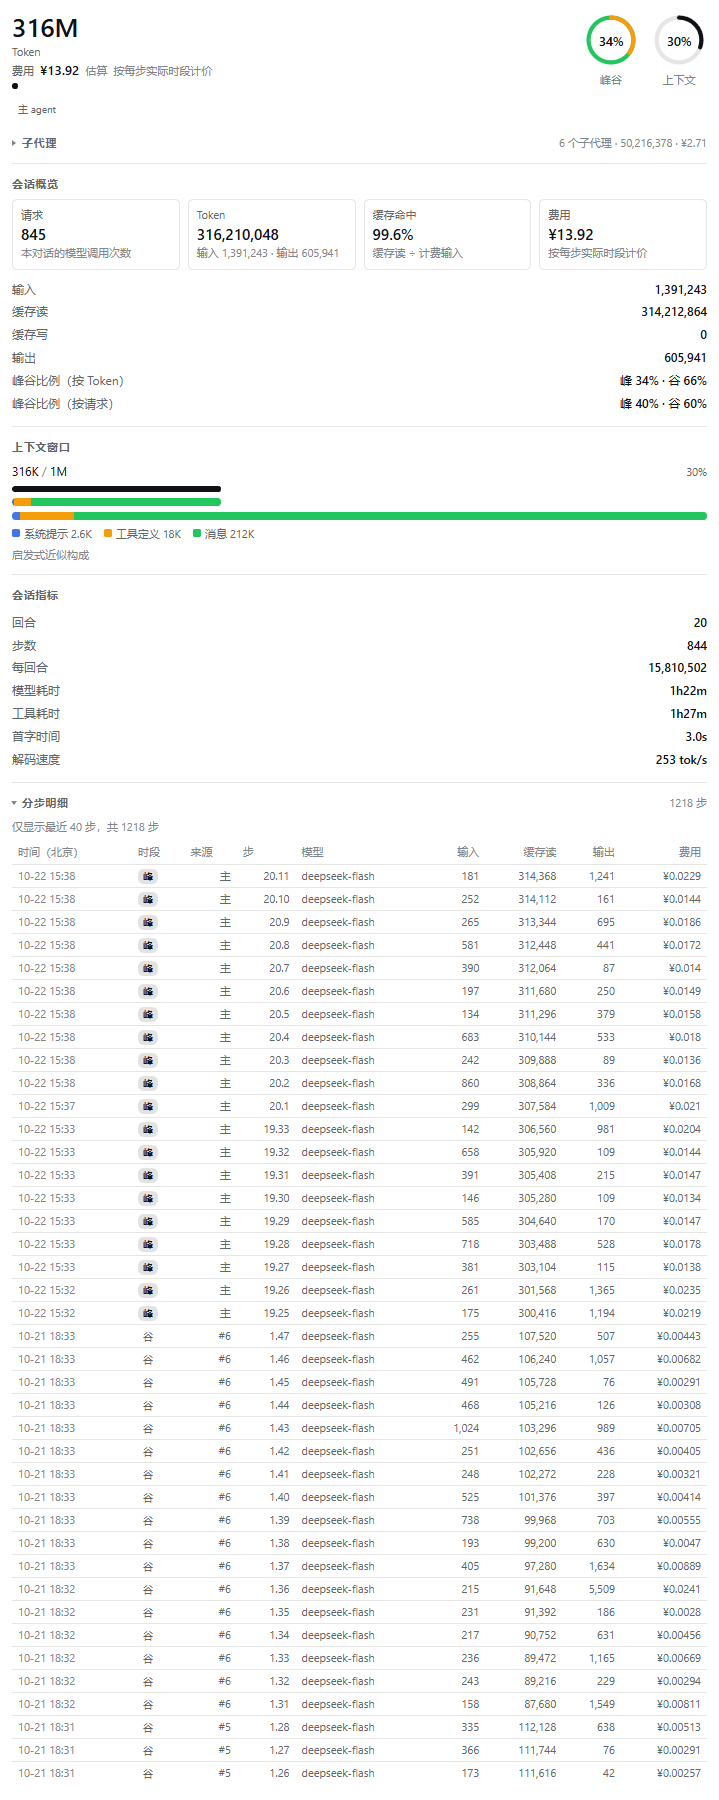
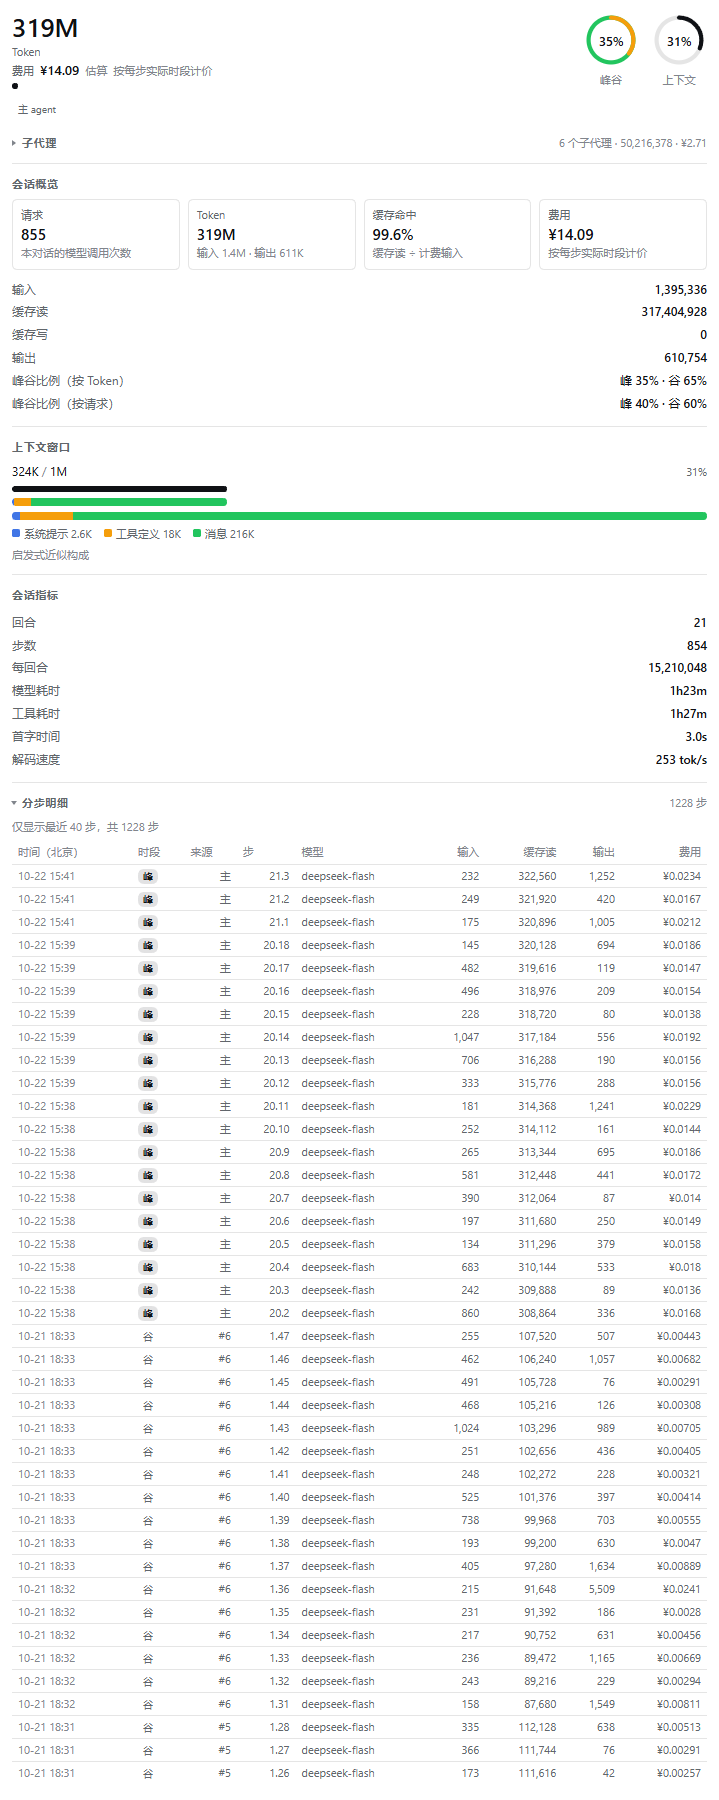
feat: compact units in the overview token card only

diff --git a/dist/client.js b/dist/client.js
@@ -1,4 +1,4 @@
-/* dsh-usage-insights v0.8.7 — generated by scripts/build.mjs; do not edit. */
+/* dsh-usage-insights v0.8.8 — generated by scripts/build.mjs; do not edit. */
 window.__ModuleLoader__.load({
   id: "dsh-usage-insights",
   factory(require) {
@@ -2173,8 +2173,9 @@ function SessionPanel(props) {
           Stat,
           {
             label: t("label.tokens"),
-            value: formatTokenCount(view.totalTokens),
-            hint: `${t("label.input")} ${formatTokenCount(view.buckets.uncachedInputTokens)} \xB7 ${t("label.output")} ${formatTokenCount(view.buckets.outputTokens)}`
+            value: formatTokens(view.totalTokens),
+            title: formatTokenCount(view.totalTokens),
+            hint: `${t("label.input")} ${formatTokens(view.buckets.uncachedInputTokens)} \xB7 ${t("label.output")} ${formatTokens(view.buckets.outputTokens)}`
           }
         ),
         /* @__PURE__ */ (0, import_jsx_runtime4.jsx)(

diff --git a/src/client/SessionPanel.tsx b/src/client/SessionPanel.tsx
@@ -154,8 +154,9 @@ export function SessionPanel(props: SessionPanelProps): JSX.Element {
             <Stat label={t('label.requests')} value={formatCount(view.requests)} hint={t('label.requests.hint')} />
             <Stat
               label={t('label.tokens')}
-              value={formatTokenCount(view.totalTokens)}
-              hint={`${t('label.input')} ${formatTokenCount(view.buckets.uncachedInputTokens)} · ${t('label.output')} ${formatTokenCount(view.buckets.outputTokens)}`}
+              value={formatTokens(view.totalTokens)}
+              title={formatTokenCount(view.totalTokens)}
+              hint={`${t('label.input')} ${formatTokens(view.buckets.uncachedInputTokens)} · ${t('label.output')} ${formatTokens(view.buckets.outputTokens)}`}
             />
             <Stat
               label={t('label.cacheHit')}

diff --git a/README.md b/README.md
@@ -15,7 +15,7 @@
 ### 用量（当前对话）
 
 - **会话概览**：请求数、Token 总量、输入 / 缓存读 / 缓存写 / 输出四桶、缓存命中率、费用，以及峰谷比例（按 Token 与按请求各一行）。
-- **Token 显示**：会话概览、会话指标、子代理明细与分步明细显示千分位精确整数（如 `275,123,456`）；页头总量、上下文窗口与用量汇总使用 `K` / `M` / `G` 紧凑单位，悬停数字可看到精确值。
+- **Token 显示**：会话概览的 Token 卡片（含其输入/输出提示）使用 `K` / `M` / `G` 紧凑单位；会话概览的其余行、会话指标、子代理明细与分步明细显示千分位精确整数（如 `275,123,456`）；页头总量、上下文窗口与用量汇总也使用紧凑单位，悬停数字可看到精确值。
 - **上下文窗口**：第一行显示已用 / 容量与占用百分比；第二行是按占用比例填充的进度条；第三行是「占用 + 构成」组合条（宽度为占用比例，内部按三色分段）；第四行是整窗构成条；条下是带颜色的图例与各段数值。
 - **峰谷圈图**：上下文圈图左侧另有一个圈图，绿色轨道表示空闲、橙色弧线表示高峰，中心显示高峰占比（按 Token）。
 - **会话指标**：回合数、步数、每回合 Token、模型耗时、工具耗时、首字时间、解码速度。

diff --git a/README.EN.md b/README.EN.md
@@ -20,9 +20,10 @@ The plugin adds two right-Sidebar pages.
 - **Session overview**: request count, total tokens, the four disjoint buckets (input /
   cache read / cache write / output), cache-hit rate, cost, and the peak/off-peak share
   (one row by tokens, one by requests).
-- **Token figures**: the session overview, session metrics, subagent detail and request ledger
-  show exact grouped integers (for example `275,123,456`); the header total, context window and
-  usage history use compact `K` / `M` / `G` units, with the exact value on hover.
+- **Token figures**: the overview's Token card (including its input/output hint) uses compact
+  `K` / `M` / `G` units; the remaining overview rows, session metrics, subagent detail and
+  request ledger show exact grouped integers (for example `275,123,456`); the header total,
+  context window and usage history also use compact units, with the exact value on hover.
 - **Context window**: the first row shows used / capacity and the occupancy percentage; the
   second row is a bar filled to that occupancy; the third row combines both — its width is the
   occupancy and its three-colour fill is the composition; the fourth row is the whole-window
